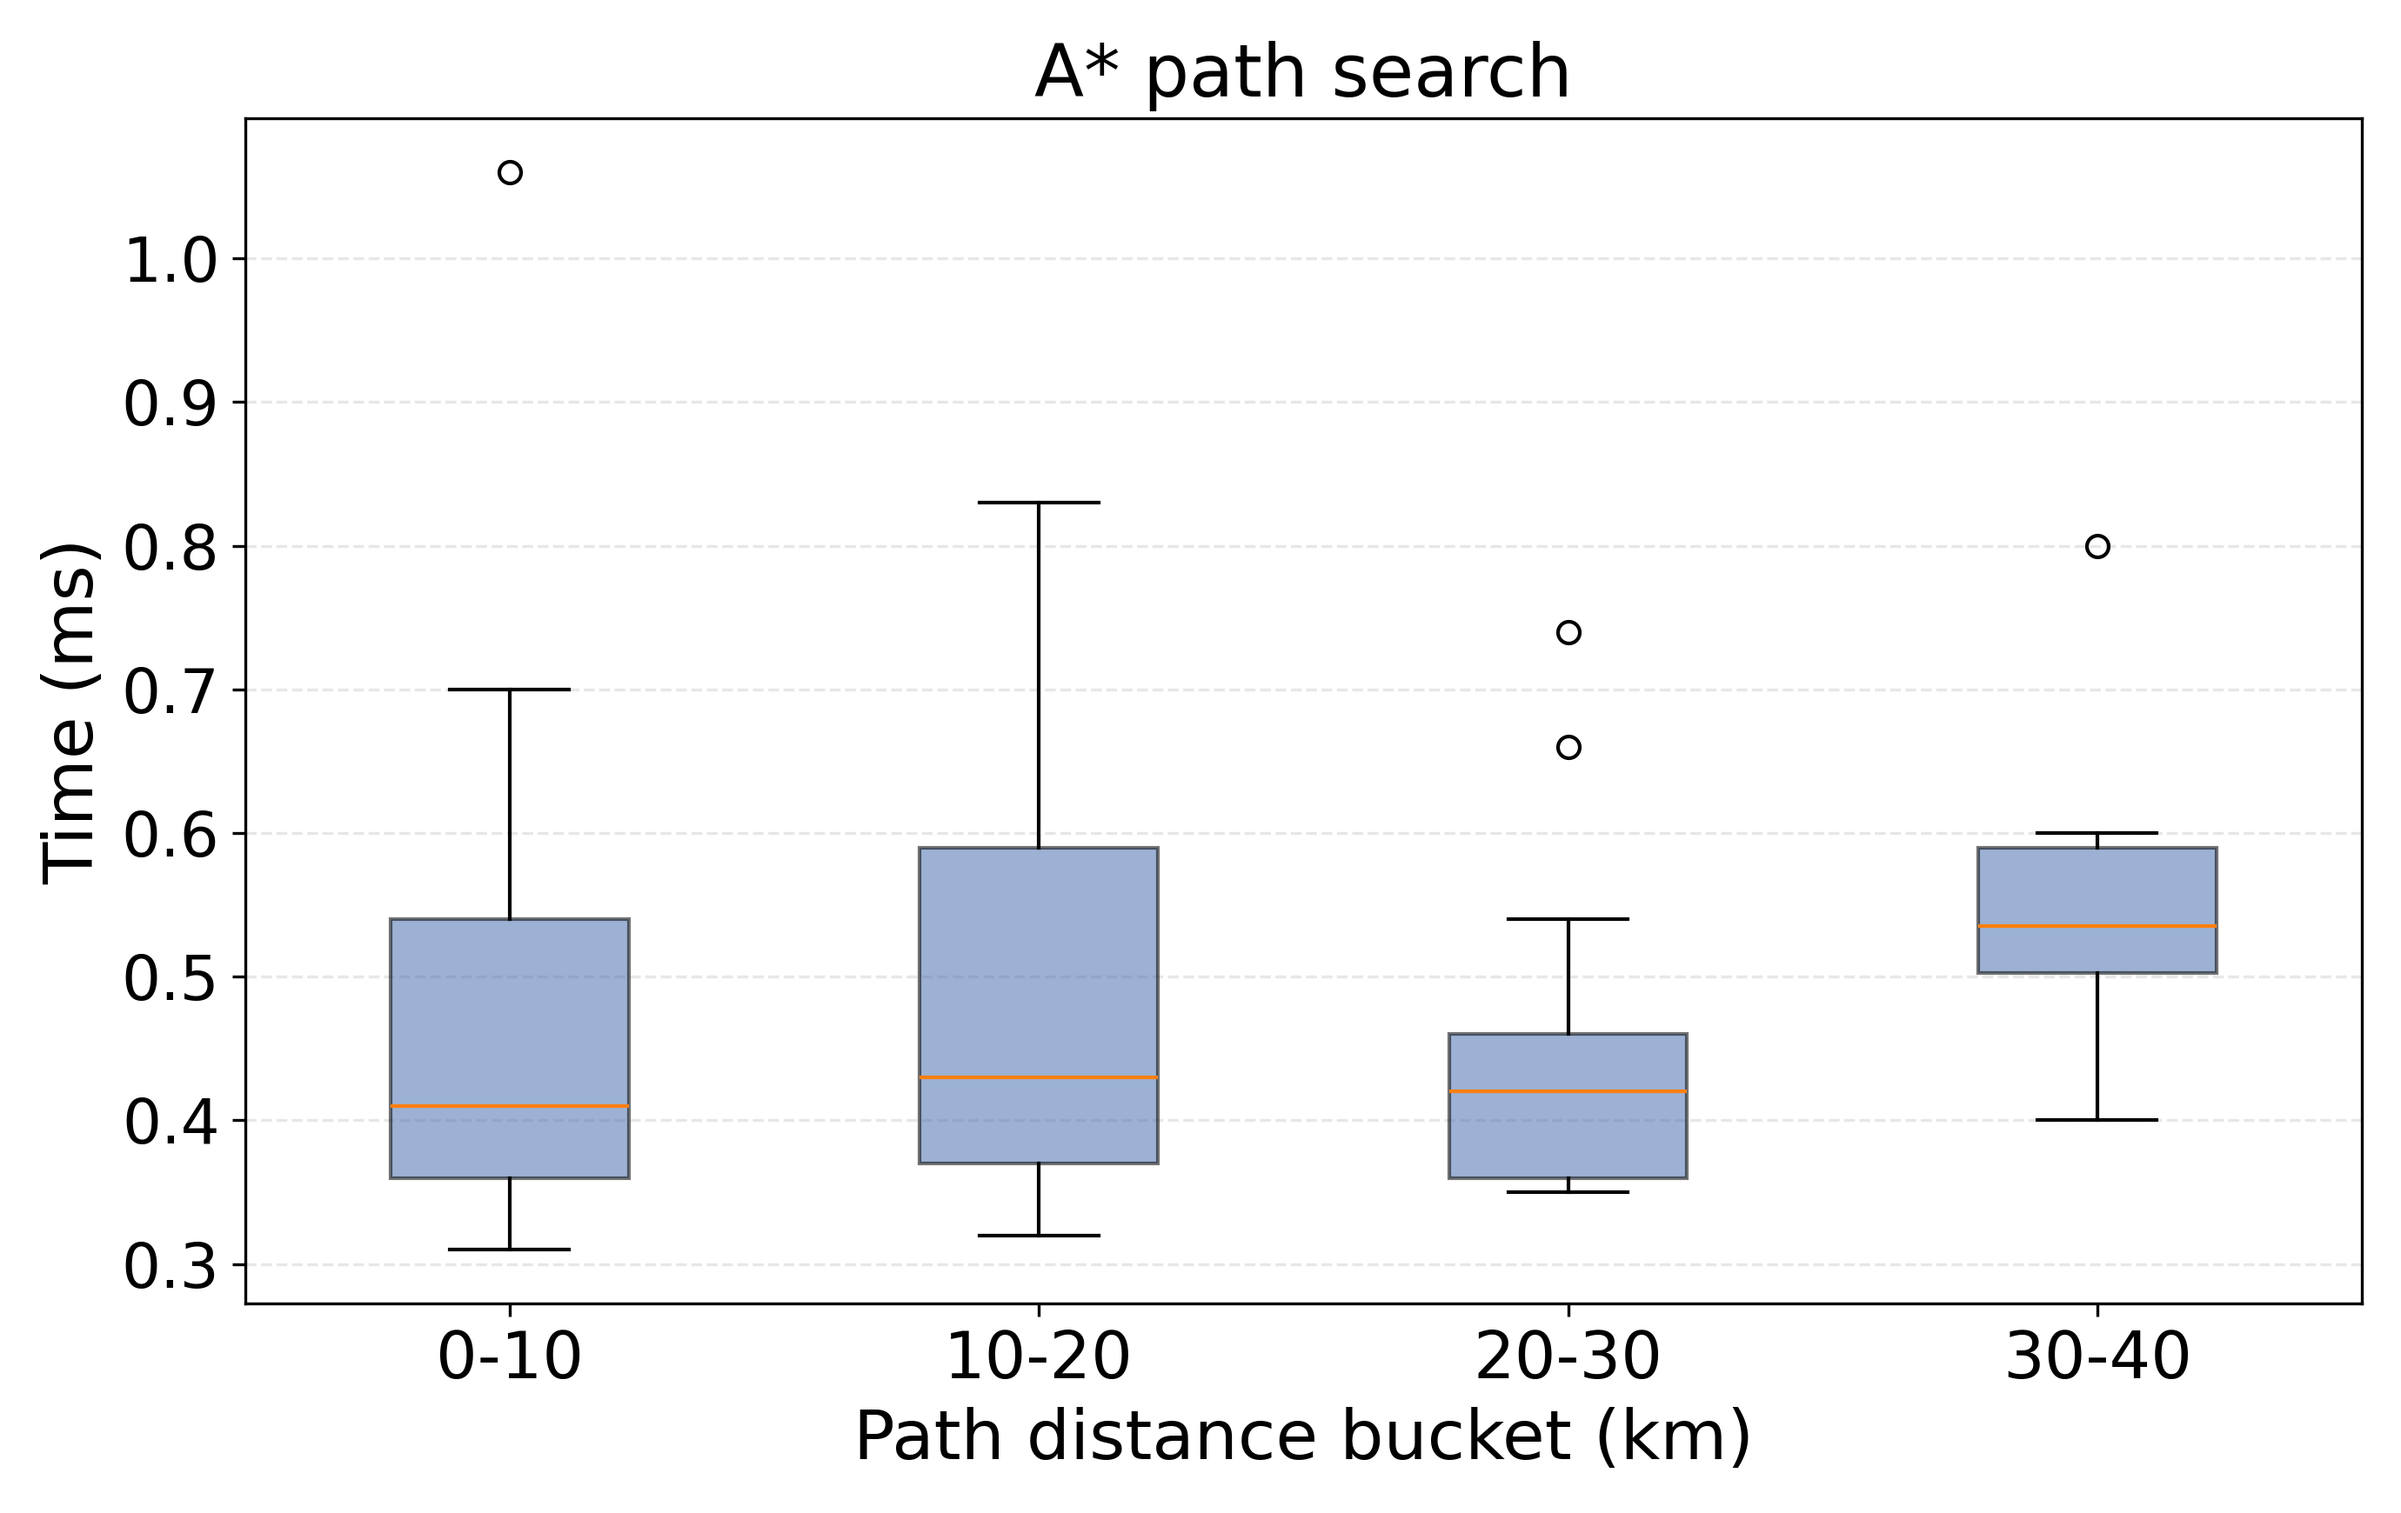
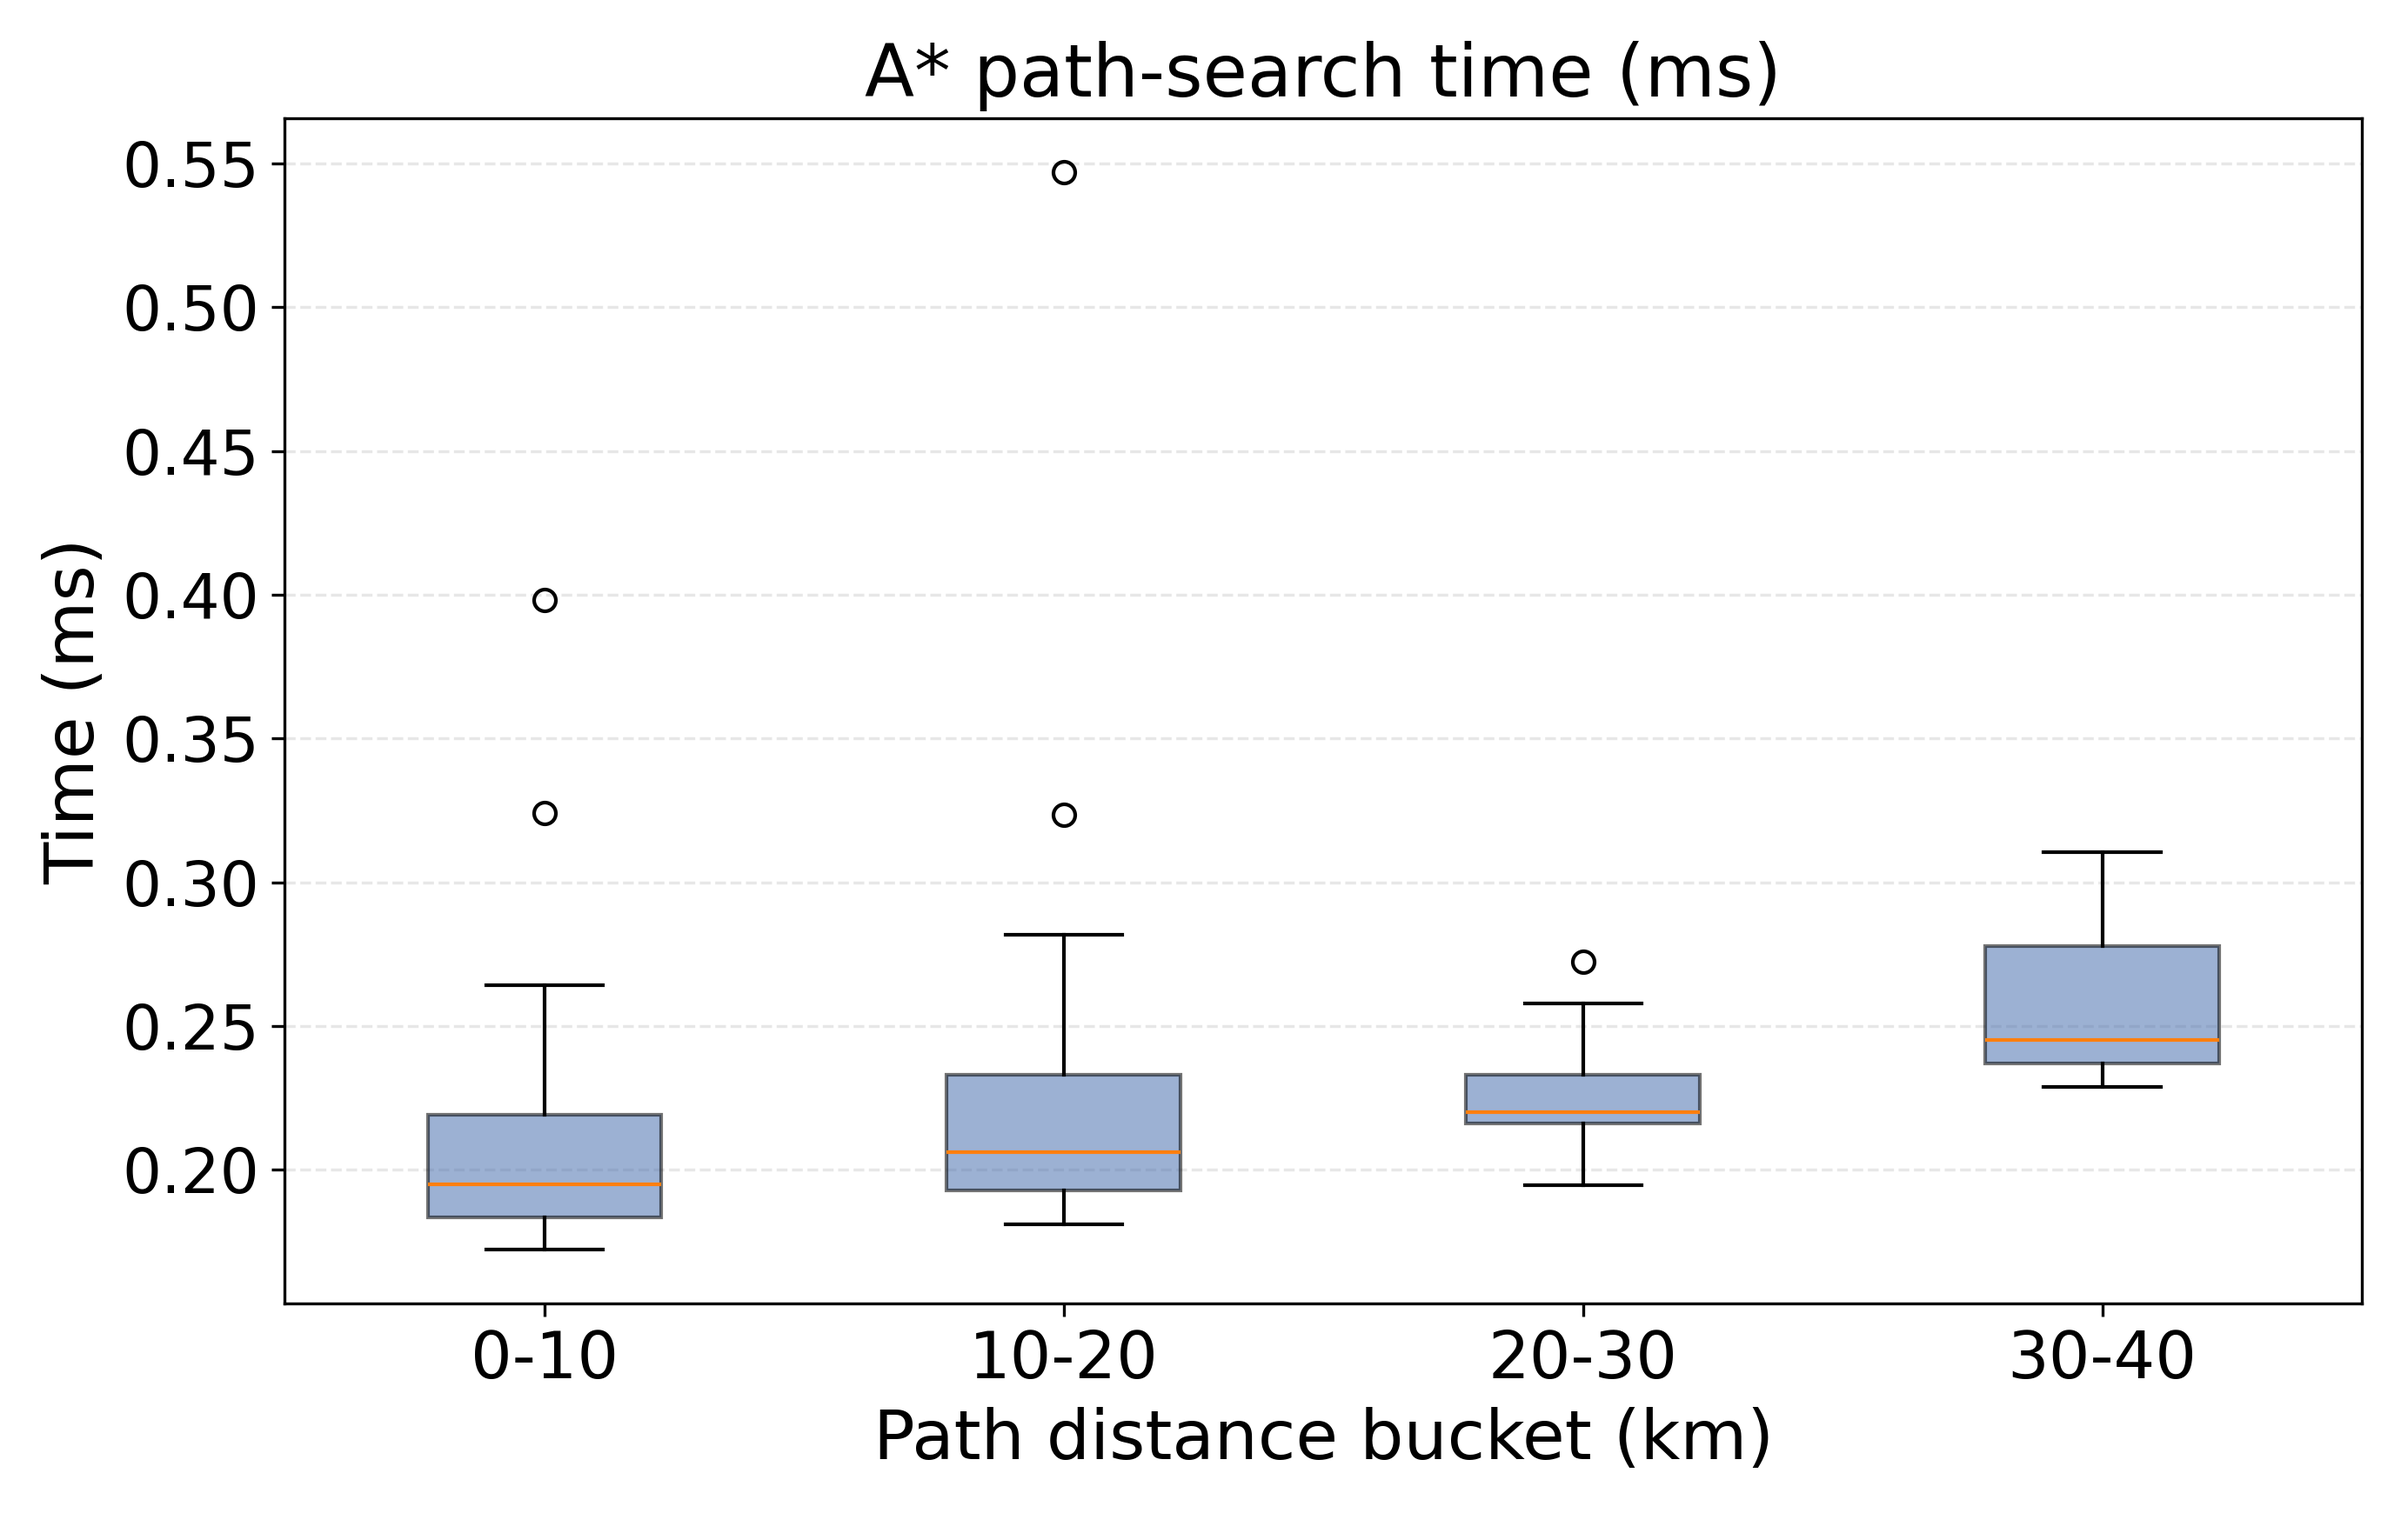
feat: regenerate figures with updated trajectory engine

diff --git a/plots/trajcalc_scalability/planner_scalability_table_rows.tex b/plots/trajcalc_scalability/planner_scalability_table_rows.tex
@@ -1,4 +1,4 @@
-Planner-stage subtotal & 88.94 & 32.12 & 83.18 & 132.24 & 169.78 \\
-CFMS invocation + generation & 88.27 & 32.09 & 82.48 & 131.38 & 169.06 \\
-Waypoint synthesis & 0.20 & 0.06 & 0.18 & 0.27 & 0.41 \\
-A* path search & 0.47 & 0.14 & 0.42 & 0.64 & 0.83 \\
+Planner-stage subtotal & 43.72 & 14.08 & 45.28 & 59.80 & 73.94 \\
+CFMS invocation + generation & 43.38 & 14.06 & 44.97 & 59.44 & 73.58 \\
+Waypoint synthesis & 0.12 & 0.02 & 0.11 & 0.14 & 0.22 \\
+A* path search & 0.22 & 0.05 & 0.21 & 0.26 & 0.40 \\
